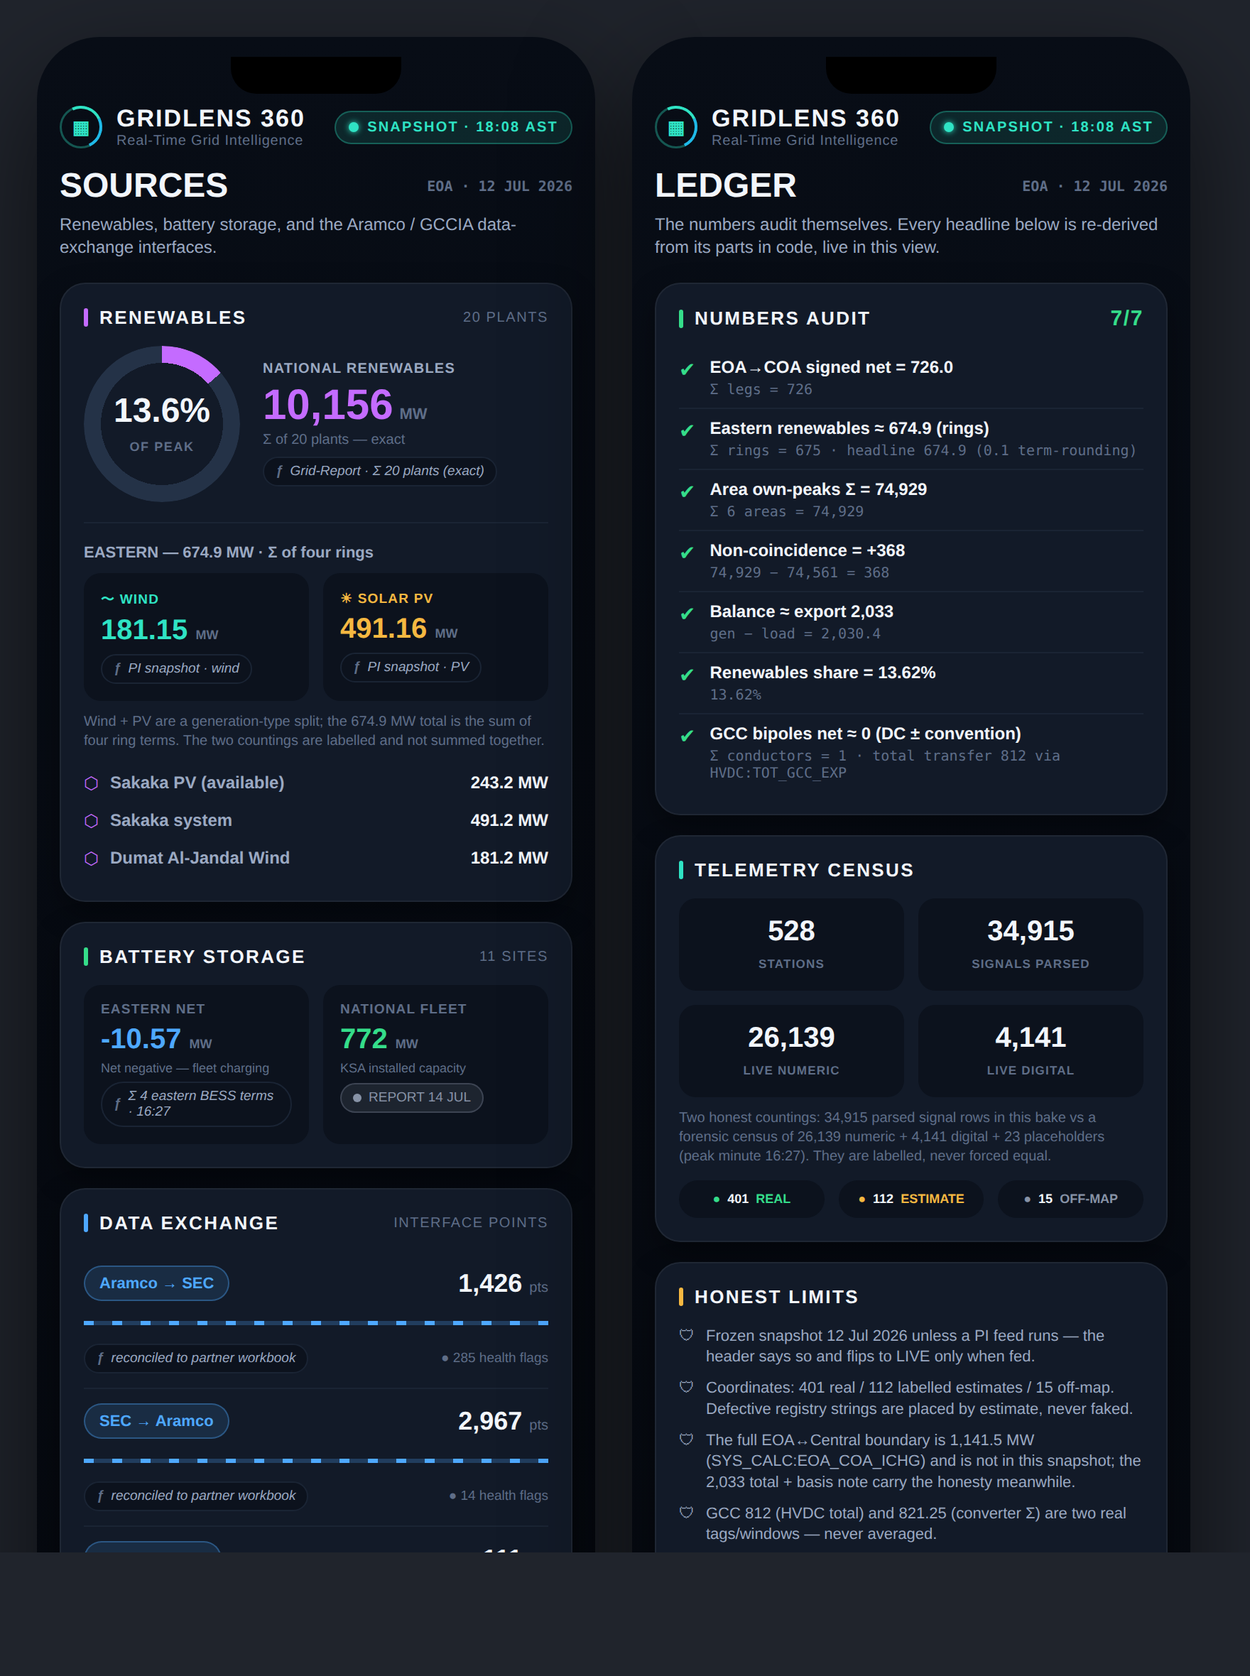
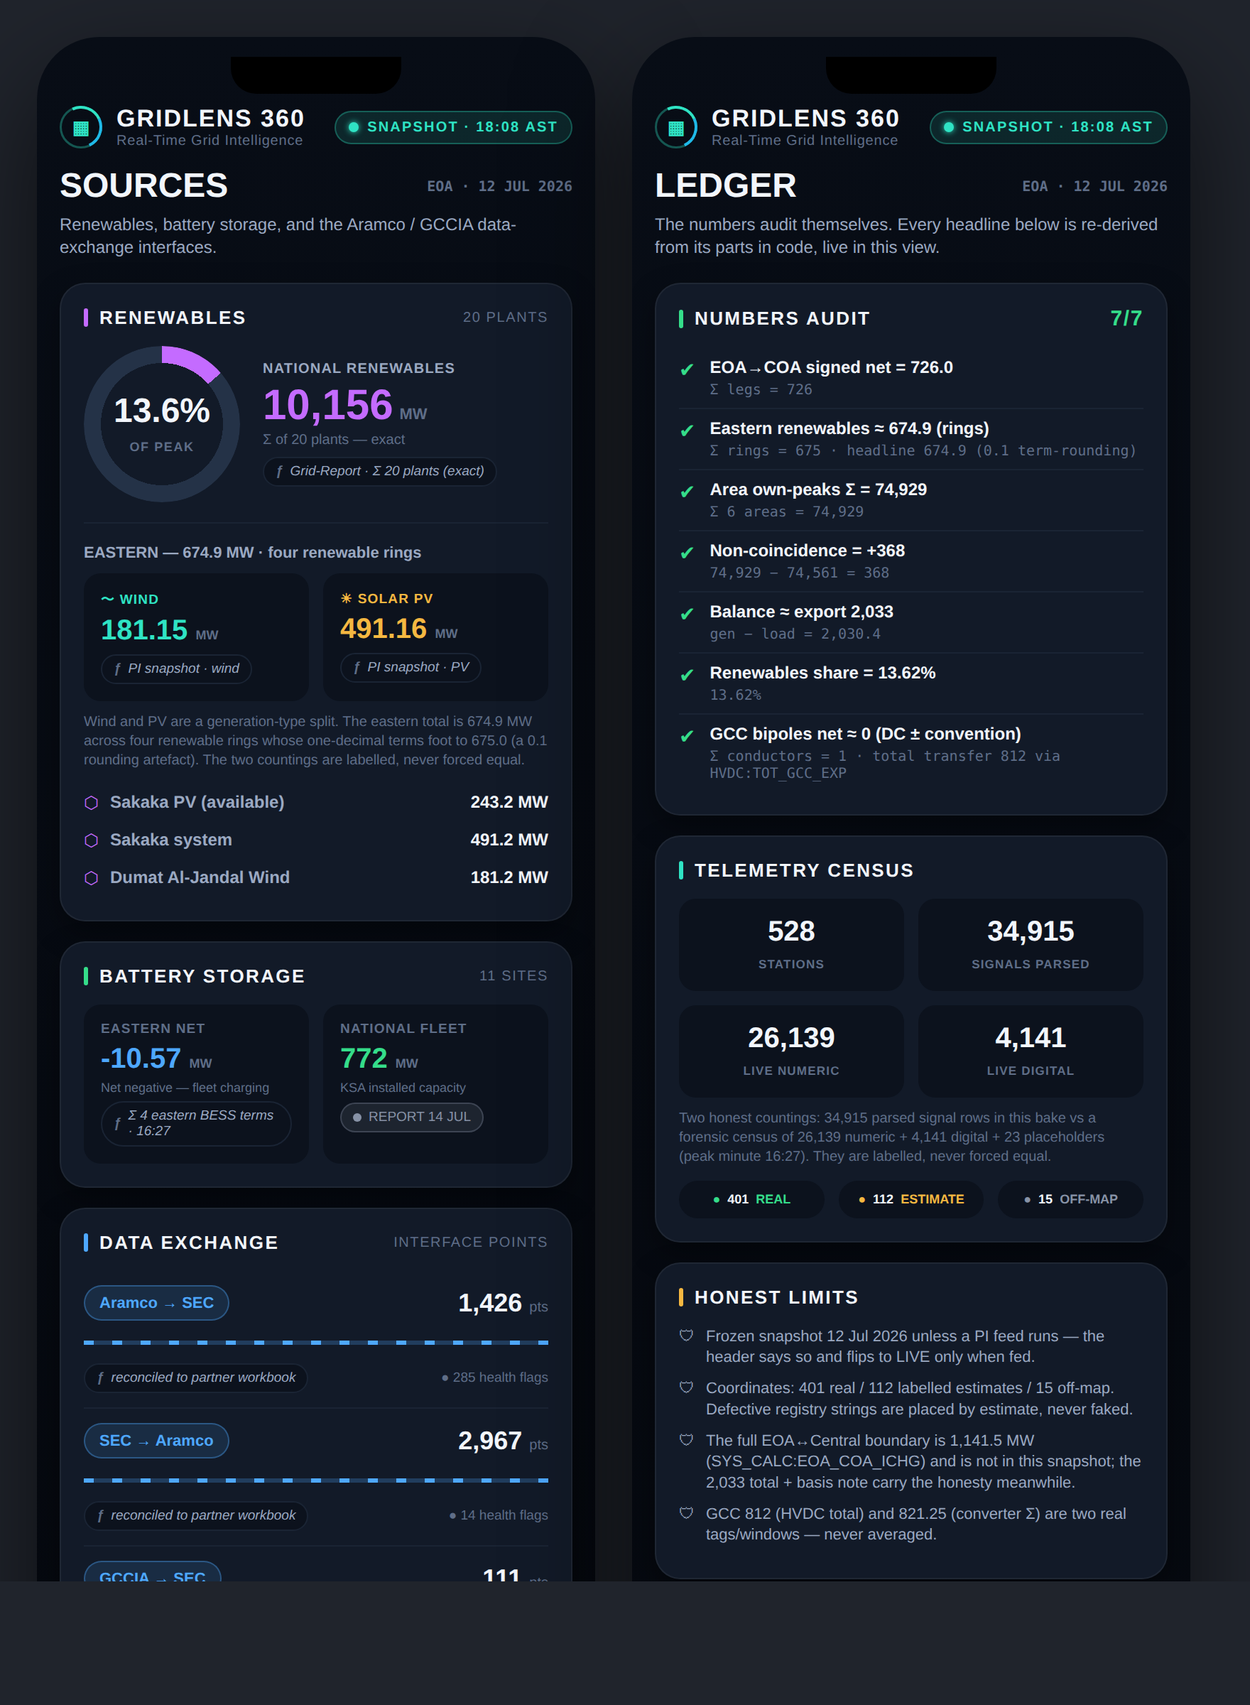
fix: third-wave audit — formatting, animation, honesty, layout, and safety fixes
A final aggressive multi-team audit (runtime/logic, layout/device-stress,
Xcode build/TestFlight, data correctness) found no build blockers; the
confirmed defects are fixed here.

Data / honesty:
- Metric.grouped: magnitude-rule precision, never pads trailing zeros. Legs
  read 57.6 / -52.7 (not 57.60 / -52.70), wind/PV restore 181.15 / 491.16,
  and generation reads a clean 23,994 so the balance proof is an exact
  23,994 - 21,964 = 2,030.
- Sources screen no longer asserts 674.9 = Σ four rings (the rounded terms foot
  to 675.0); reworded to state the 0.1 rounding honestly.
- Corridor gains isPITag; the EOA→COA descriptor no longer renders with the
  harvested-PI-tag "#" glyph.
- Kingdom edge label aligned to 141.1 (matches the Corridors card).

Animation / rendering:
- CountUpNumber: dropped the .contentTransition(.numericText()) that fought the
  Animatable ramp; added a minimumScaleFactor clip guard.
- Kingdom schematic: edge value labels now render in a top layer, nudged clear
  of the connecting line, so a tight corridor can never hide the value.

Layout / device stress:
- Header wordmark: lineLimit + minimumScaleFactor + layoutPriority so it can't
  overflow at <=375pt.
- "Show N metered legs" button: padded to a >=44pt tap target with contentShape.
- Lower KPI-label scale floor so the long GCC label never truncates.
- Operating-day peak label clamp keeps it inside the frame.

Safety:
- Guarded the two latent force-unwraps in selfCheck() and the empty-series
[…]

diff --git a/GridLens360/GridLens360/Screens/KingdomView.swift b/GridLens360/GridLens360/Screens/KingdomView.swift
@@ -81,29 +81,31 @@ struct KingdomView: View {
 private struct KingdomMap: View {
     let grid: GridSnapshot
 
+    private struct Edge { let from: CGPoint; let to: CGPoint; let mw: Double; let label: String; let inbound: Bool }
+
     var body: some View {
         GeometryReader { geo in
             let w = geo.size.width, h = geo.size.height
             let gcc = CGPoint(x: 0.90 * w, y: 0.83 * h)
+            let edges: [Edge] = [
+                Edge(from: center("EOA", w, h), to: center("COA", w, h), mw: 726,   label: "726",   inbound: false),
+                Edge(from: center("COA", w, h), to: center("NEA", w, h), mw: 141.1, label: "141.1", inbound: false),
+                Edge(from: center("NWA", w, h), to: center("NEA", w, h), mw: 76,    label: "76",    inbound: false),
+                Edge(from: center("EOA", w, h), to: gcc,                 mw: 812,   label: "812",   inbound: true),
+            ]
             ZStack {
-                // Edges (drawn behind the nodes).
-                FlowEdge(from: center("EOA", w, h), to: center("COA", w, h),
-                         mw: 726, label: "726")
-                FlowEdge(from: center("COA", w, h), to: center("NEA", w, h),
-                         mw: 141, label: "141")
-                FlowEdge(from: center("NWA", w, h), to: center("NEA", w, h),
-                         mw: 76, label: "76")
-                FlowEdge(from: center("EOA", w, h), to: gcc,
-                         mw: 812, label: "812", accentInbound: true)
-
-                // Area nodes.
+                // 1 — animated edge lines (under the nodes).
+                ForEach(edges.indices, id: \.self) { i in
+                    FlowEdge(from: edges[i].from, to: edges[i].to, mw: edges[i].mw, accentInbound: edges[i].inbound)
+                }
+                // 2 — area nodes.
                 ForEach(grid.areaPeaks) { a in
                     AreaNode(code: a.code, sub: Metric.grouped(a.peak),
                              accent: a.code == "EOA" ? Theme.energy : Theme.textSecondary,
                              highlighted: a.code == "EOA")
                         .position(center(a.code, w, h))
                 }
-                // GCC interconnection node.
+                // 3 — GCC interconnection node.
                 VStack(spacing: 1) {
                     Text("GCC").font(.system(size: 12, weight: .heavy)).foregroundStyle(Theme.importIn)
                     Text("HVDC").font(.system(size: 7.5, weight: .semibold)).foregroundStyle(Theme.textTertiary)
@@ -112,8 +114,27 @@ private struct KingdomMap: View {
                 .background(RoundedRectangle(cornerRadius: 10).fill(Theme.surfaceHi)
                     .overlay(RoundedRectangle(cornerRadius: 10).strokeBorder(Theme.importIn.opacity(0.4), lineWidth: 1)))
                 .position(gcc)
+                // 4 — edge value labels ON TOP of the nodes, nudged clear of the line
+                //     so a tight corridor (e.g. COA↔EOA) can never hide the value.
+                ForEach(edges.indices, id: \.self) { i in
+                    EdgeLabel(text: edges[i].label,
+                              color: edges[i].inbound ? Theme.importIn : Theme.flowColor(edges[i].mw),
+                              at: Self.labelPoint(edges[i].from, edges[i].to))
+                }
             }
         }
+    }
+
+    /// Midpoint nudged ~15pt perpendicular to the edge, biased upward, so the
+    /// value pill sits just off the connecting line and clear of the node band.
+    private static func labelPoint(_ a: CGPoint, _ b: CGPoint) -> CGPoint {
+        let mid = CGPoint(x: (a.x + b.x) / 2, y: (a.y + b.y) / 2)
+        let dx = b.x - a.x, dy = b.y - a.y
+        let len = max((dx * dx + dy * dy).squareRoot(), 1)
+        var nx = -dy / len, ny = dx / len            // unit normal
+        if ny > 0 { nx = -nx; ny = -ny }             // bias upward (−y)
+        let off: CGFloat = 15
+        return CGPoint(x: mid.x + nx * off, y: mid.y + ny * off)
     }
 
     private func center(_ code: String, _ w: CGFloat, _ h: CGFloat) -> CGPoint {
@@ -124,13 +145,12 @@ private struct KingdomMap: View {
     }
 }
 
-/// An animated edge between two schematic nodes. Dash travels in the flow
-/// direction; a mid-pill prints the MW magnitude.
+/// An animated edge (line only) between two schematic nodes. The dash travels in
+/// the flow direction; the value label is drawn separately, above the nodes.
 private struct FlowEdge: View {
     let from: CGPoint
     let to: CGPoint
     let mw: Double
-    let label: String
     var accentInbound: Bool = false
 
     private var color: Color { accentInbound ? Theme.importIn : Theme.flowColor(mw) }
@@ -138,29 +158,36 @@ private struct FlowEdge: View {
 
     var body: some View {
         let dash: CGFloat = 18
-        ZStack {
-            TimelineView(.animation) { ctx in
-                let t = ctx.date.timeIntervalSinceReferenceDate
-                let travel = CGFloat((t.truncatingRemainder(dividingBy: Theme.flowPeriod)) / Theme.flowPeriod) * dash
-                Canvas { g, _ in
-                    var p = Path()
-                    p.move(to: from); p.addLine(to: to)
-                    g.stroke(p, with: .color(color.opacity(0.20)),
-                             style: StrokeStyle(lineWidth: 3, lineCap: .round))
-                    g.stroke(p, with: .color(color),
-                             style: StrokeStyle(lineWidth: 3, lineCap: .round,
-                                                dash: [6, dash - 6],
-                                                dashPhase: forward ? -travel : travel))
-                }
+        TimelineView(.animation) { ctx in
+            let t = ctx.date.timeIntervalSinceReferenceDate
+            let travel = CGFloat((t.truncatingRemainder(dividingBy: Theme.flowPeriod)) / Theme.flowPeriod) * dash
+            Canvas { g, _ in
+                var p = Path()
+                p.move(to: from); p.addLine(to: to)
+                g.stroke(p, with: .color(color.opacity(0.20)),
+                         style: StrokeStyle(lineWidth: 3, lineCap: .round))
+                g.stroke(p, with: .color(color),
+                         style: StrokeStyle(lineWidth: 3, lineCap: .round,
+                                            dash: [6, dash - 6],
+                                            dashPhase: forward ? -travel : travel))
             }
-            Text(label)
-                .font(Theme.number(11, weight: .bold))
-                .foregroundStyle(color)
-                .padding(.horizontal, 6).padding(.vertical, 2)
-                .background(Capsule().fill(Theme.bg))
-                .overlay(Capsule().strokeBorder(color.opacity(0.4), lineWidth: 1))
-                .position(x: (from.x + to.x) / 2, y: (from.y + to.y) / 2)
         }
+    }
+}
+
+/// The value pill for an edge, positioned absolutely and drawn in the top layer.
+private struct EdgeLabel: View {
+    let text: String
+    let color: Color
+    let at: CGPoint
+    var body: some View {
+        Text(text)
+            .font(Theme.number(11, weight: .bold))
+            .foregroundStyle(color)
+            .padding(.horizontal, 6).padding(.vertical, 2)
+            .background(Capsule().fill(Theme.bg))
+            .overlay(Capsule().strokeBorder(color.opacity(0.4), lineWidth: 1))
+            .position(at)
     }
 }
 

diff --git a/GridLens360/GridLens360/Model/GridData.swift b/GridLens360/GridLens360/Model/GridData.swift
@@ -62,11 +62,23 @@ struct Metric: Identifiable, Equatable {
     /// Grouped display, e.g. "21,964". Decimals preserved only when meaningful.
     var display: String { Self.grouped(value) }
 
+    /// Grouped display with honest, un-padded precision:
+    /// whole numbers show no decimals; values below 1,000 keep up to two real
+    /// decimals (so 181.15 stays 181.15 and 57.6 stays 57.6, never "57.60");
+    /// large figures round to whole MW (so generation reads "23,994", not
+    /// "23,994.4"). `minimumFractionDigits` stays 0 — trailing zeros are never
+    /// padded.
     static func grouped(_ v: Double) -> String {
         let f = NumberFormatter()
         f.numberStyle = .decimal
-        f.maximumFractionDigits = (v.rounded() == v) ? 0 : (abs(v) < 100 ? 2 : 1)
-        f.minimumFractionDigits = f.maximumFractionDigits
+        f.minimumFractionDigits = 0
+        if v.rounded() == v {
+            f.maximumFractionDigits = 0
+        } else if abs(v) < 1_000 {
+            f.maximumFractionDigits = 2
+        } else {
+            f.maximumFractionDigits = 0
+        }
         return f.string(from: NSNumber(value: v)) ?? "\(v)"
     }
 }
@@ -98,6 +110,9 @@ struct Corridor: Identifiable {
     let legs: [CorridorLeg]
     /// Whether the metered legs may be expanded on the card.
     let showLegs: Bool
+    /// True when `tag` is a real harvested PI tag / SYS_CALC identifier; false when
+    /// it is a prose descriptor (so the chip shows the derived glyph, not "#").
+    let isPITag: Bool
     /// Optional basis note printed on the card (e.g. partial-vs-boundary caveat).
     let note: String?
 
@@ -110,10 +125,10 @@ struct Corridor: Identifiable {
 
     init(from: String, to: String, net: Double, tag: String, timestamp: String,
          basis: MetricBasis = .snapshot, legs: [CorridorLeg] = [], showLegs: Bool = true,
-         note: String? = nil) {
+         isPITag: Bool = true, note: String? = nil) {
         self.from = from; self.to = to; self.net = net; self.tag = tag
         self.timestamp = timestamp; self.basis = basis; self.legs = legs
-        self.showLegs = showLegs; self.note = note
+        self.showLegs = showLegs; self.isPITag = isPITag; self.note = note
     }
 }
 
@@ -203,6 +218,7 @@ struct GridSnapshot {
                     CorridorLeg(name: "SHED", mw: 472.5, tag: "SHED"),
                     CorridorLeg(name: "FARS", mw: 400.0, tag: "FARS")
                  ],
+                 isPITag: false,
                  note: "Signed net of six lines (two import, four export). Gross |Σ| 1,412 is NOT the number. Full boundary is 1,141.5 MW (SYS_CALC:EOA_COA_ICHG, not in this snapshot)."),
         Corridor(from: "EOA", to: "NE", net: 114.2,
                  tag: "EOA-NE:INTERCHANGE(LN_380KV_MW)", timestamp: "16:28",
@@ -318,9 +334,10 @@ struct GridSnapshot {
         func near(_ a: Double, _ b: Double, _ band: Double = 0.6) -> Bool { abs(a - b) <= band }
         var r: [(name: String, ok: Bool, detail: String)] = []
 
-        let coa = corridors.first { $0.from == "EOA" && $0.to == "COA" }!
-        let coaSum = coa.legs.reduce(0) { $0 + $1.mw }
-        r.append(("EOA→COA signed net = 726.0", near(coaSum, 726.0), "Σ legs = \(Metric.grouped(coaSum))"))
+        if let coa = corridors.first(where: { $0.from == "EOA" && $0.to == "COA" }) {
+            let coaSum = coa.legs.reduce(0) { $0 + $1.mw }
+            r.append(("EOA→COA signed net = 726.0", near(coaSum, 726.0), "Σ legs = \(Metric.grouped(coaSum))"))
+        }
 
         let renSum = renEOATerms.reduce(0, +)
         r.append(("Eastern renewables ≈ 674.9 (rings)", near(renSum, 674.9),
@@ -335,10 +352,11 @@ struct GridSnapshot {
         let pct = renNationalTotal.value / ksaPeak.value * 100
         r.append(("Renewables share = 13.62%", near(pct, renNationalPct, 0.02), String(format: "%.2f%%", pct)))
 
-        let gcc = corridors.first { $0.from == "EOA" && $0.to == "GCC" }!
-        let gccNet = gcc.legs.reduce(0) { $0 + $1.mw }
-        r.append(("GCC bipoles net ≈ 0 (DC ± convention)", near(gccNet, 0.0, 2.0),
-                  "Σ conductors = \(Metric.grouped(gccNet)) · total transfer 812 via HVDC:TOT_GCC_EXP"))
+        if let gcc = corridors.first(where: { $0.from == "EOA" && $0.to == "GCC" }) {
+            let gccNet = gcc.legs.reduce(0) { $0 + $1.mw }
+            r.append(("GCC bipoles net ≈ 0 (DC ± convention)", near(gccNet, 0.0, 2.0),
+                      "Σ conductors = \(Metric.grouped(gccNet)) · total transfer 812 via HVDC:TOT_GCC_EXP"))
+        }
 
         return r
     }

diff --git a/GridLens360/GridLens360/RootTabView.swift b/GridLens360/GridLens360/RootTabView.swift
@@ -82,12 +82,17 @@ struct BoardHeader: View {
                         .font(.system(size: 17, weight: .heavy).width(.expanded))
                         .tracking(1.0)
                         .foregroundStyle(Theme.textPrimary)
+                        .lineLimit(1)
+                        .minimumScaleFactor(0.75)
                     Text("Real-Time Grid Intelligence")
                         .font(.system(size: 10.5, weight: .medium))
                         .tracking(0.4)
                         .foregroundStyle(Theme.textTertiary)
+                        .lineLimit(1)
+                        .minimumScaleFactor(0.8)
                 }
-                Spacer()
+                .layoutPriority(1)
+                Spacer(minLength: 6)
                 StatusStamp(basis: grid.status, timestamp: grid.asOf)
             }
             HStack(spacing: 8) {
@@ -116,7 +121,7 @@ struct LensMark: View {
             Circle().trim(from: 0, to: 0.72)
                 .stroke(Theme.energyGrad, style: StrokeStyle(lineWidth: 2, lineCap: .round))
                 .rotationEffect(.degrees(spin ? 360 : 0))
-            Image(systemName: "grid")
+            Image(systemName: "square.grid.3x3.fill")
                 .font(.system(size: 12, weight: .bold))
                 .foregroundStyle(Theme.energy)
         }

diff --git a/GridLens360/GridLens360/Components/Charts.swift b/GridLens360/GridLens360/Components/Charts.swift
@@ -39,10 +39,12 @@ struct OperatingDayCurve: View {
                                      startPoint: .top, endPoint: .bottom))
                 .opacity(Double(draw))
 
-                // The curve line, drawn on.
+                // The curve line, drawn on. Indices-based so an empty series can
+                // never trip a `1..<0` range or an out-of-bounds `pt(0)`.
                 Path { p in
-                    p.move(to: pt(0))
-                    for i in 1..<points.count { p.addLine(to: pt(i)) }
+                    guard let first = points.indices.first else { return }
+                    p.move(to: pt(first))
+                    for i in points.indices.dropFirst() { p.addLine(to: pt(i)) }
                 }
                 .trim(from: 0, to: draw)
                 .stroke(Theme.energyGrad,
@@ -66,7 +68,7 @@ struct OperatingDayCurve: View {
                             .font(.system(size: 8.5, weight: .medium))
                             .foregroundStyle(Theme.textTertiary)
                     }
-                    .position(x: min(max(p.x, 26), w - 26), y: max(p.y - 20, 12))
+                    .position(x: min(max(p.x, 26), w - 26), y: max(p.y - 20, 18))
                     .opacity(Double(draw))
                 }
             }

diff --git a/GridLens360/GridLens360/Screens/SourcesView.swift b/GridLens360/GridLens360/Screens/SourcesView.swift
@@ -56,13 +56,13 @@ private struct RenewablesCard: View {
             Divider().overlay(Theme.hairlineSoft)
 
             // Eastern renewables — two honest countings.
-            Text("EASTERN — \(grid.renEOATotal.display) MW  ·  Σ of four rings")
+            Text("EASTERN — \(grid.renEOATotal.display) MW  ·  four renewable rings")
                 .font(.system(size: 11, weight: .bold)).foregroundStyle(Theme.textSecondary)
             HStack(spacing: 10) {
                 splitTile(grid.renEOAWind, "WIND", "wind", Theme.energy)
                 splitTile(grid.renEOAPV, "SOLAR PV", "sun.max.fill", Theme.amber)
             }
-            Text("Wind + PV are a generation-type split; the 674.9 MW total is the sum of four ring terms. The two countings are labelled and not summed together.")
+            Text("Wind and PV are a generation-type split. The eastern total is \(grid.renEOATotal.display) MW across four renewable rings whose one-decimal terms foot to 675.0 (a 0.1 rounding artefact). The two countings are labelled, never forced equal.")
                 .font(.system(size: 10, weight: .medium)).foregroundStyle(Theme.textTertiary)
                 .fixedSize(horizontal: false, vertical: true)
 

diff --git a/GridLens360/GridLens360/Screens/CorridorsView.swift b/GridLens360/GridLens360/Screens/CorridorsView.swift
@@ -74,7 +74,7 @@ private struct CorridorCard: View {
 
             FlowLine(mw: corridor.net, height: 20)
 
-            TagChip(tag: corridor.tag, timestamp: corridor.timestamp)
+            TagChip(tag: corridor.tag, timestamp: corridor.timestamp, isPITag: corridor.isPITag)
 
             if let note = corridor.note {
                 HStack(alignment: .top, spacing: 6) {
@@ -97,8 +97,11 @@ private struct CorridorCard: View {
                             .font(.system(size: 9, weight: .bold))
                         Text(isOpen ? "Hide metered legs" : "Show \(legs.count) metered legs")
                             .font(.system(size: 11, weight: .semibold))
+                        Spacer(minLength: 0)
                     }
                     .foregroundStyle(color)
+                    .padding(.vertical, 10)
+                    .contentShape(Rectangle())
                 }
                 if isOpen {
                     VStack(spacing: 0) {

diff --git a/GridLens360/GridLens360/Components/CountUpNumber.swift b/GridLens360/GridLens360/Components/CountUpNumber.swift
@@ -22,10 +22,16 @@ struct CountUpNumber: View, Animatable {
     }
 
     var body: some View {
+        // The Animatable `value` above already interpolates frame-by-frame, which
+        // *is* the count-up ramp; layering `.contentTransition(.numericText())` on
+        // top would make the odometer transition restart every frame and ghost the
+        // digits, so it is deliberately omitted. minimumScaleFactor guards against
+        // an unusually wide figure clipping inside a narrow KPI tile.
         Text(format(value))
             .font(font)
             .foregroundStyle(color)
-            .contentTransition(.numericText())
+            .lineLimit(1)
+            .minimumScaleFactor(0.5)
     }
 }
 

diff --git a/GridLens360/GridLens360/GridLens360App.swift b/GridLens360/GridLens360/GridLens360App.swift
@@ -59,7 +59,7 @@ struct BootScreen: View {
                                 style: StrokeStyle(lineWidth: 3, lineCap: .round))
                         .frame(width: 96, height: 96)
                         .rotationEffect(.degrees(-90))
-                    Image(systemName: "grid")
+                    Image(systemName: "square.grid.3x3.fill")
                         .font(.system(size: 34, weight: .bold))
                         .foregroundStyle(Theme.energy)
                         .shadow(color: Theme.energy.opacity(0.6), radius: 12)

diff --git a/GridLens360/GridLens360/Screens/CommandView.swift b/GridLens360/GridLens360/Screens/CommandView.swift
@@ -75,7 +75,7 @@ private struct HeroKPI: View {
                 .font(.system(size: 9.5, weight: .semibold))
                 .tracking(0.6)
                 .foregroundStyle(Theme.textSecondary)
-                .lineLimit(1).minimumScaleFactor(0.8)
+                .lineLimit(1).minimumScaleFactor(0.6)
             CountUp(target: metric.value, font: Theme.number(30, weight: .heavy), color: accent)
             TagChip(tag: metric.tag, timestamp: metric.timestamp, isPITag: metric.isPITag)
         }

diff --git a/GridLens360/BUILD.md b/GridLens360/BUILD.md
@@ -28,9 +28,14 @@ confirm and archive.
 
 ## 2. Open the project
 
+From the repository root (`AwesomeCryptocurrency/`):
+
 ```bash
 open GridLens360/GridLens360.xcodeproj
 ```
+
+(If you are already inside the `GridLens360/` folder — where this BUILD.md lives —
+run `open GridLens360.xcodeproj` instead.)
 
 Xcode will index the `GridLens360/` source folder automatically (synchronized group — all
 Swift files and the asset catalog are picked up without manual references).
